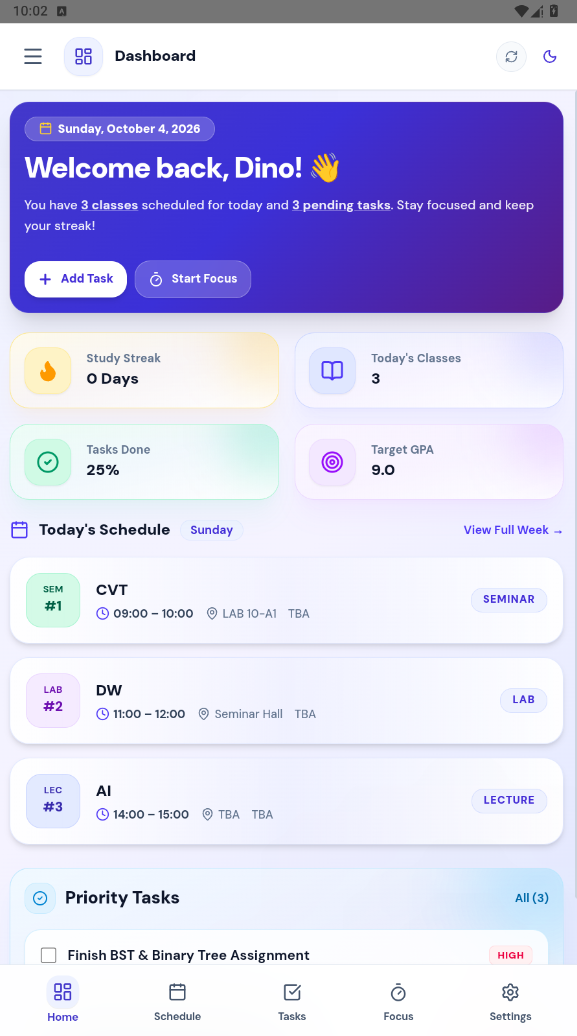
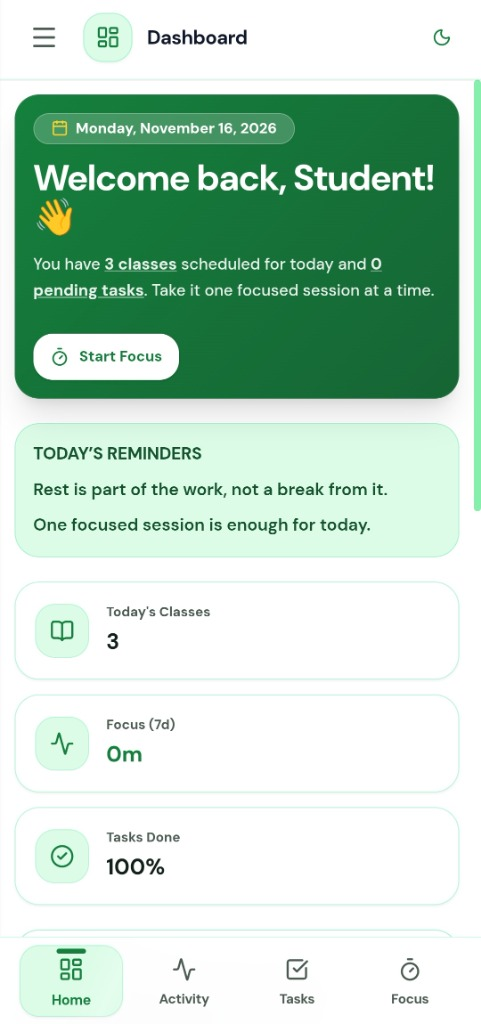
docs: update mobile screenshots in docs/screenshots and README

diff --git a/README.md b/README.md
@@ -66,15 +66,17 @@ Based on the original **studyzflow** project by **Dineswarkumar**: [https://gith
   </tr>
 </table>
 
-### 📱 Android
+### 📱 Android / Mobile
 
 <p align="center">
-  <img src="docs/screenshots/dashboard-mobile.png" alt="Mobile Dashboard" width="300" />
-  &nbsp;&nbsp;&nbsp;
-  <img src="docs/screenshots/timer-mobile.png" alt="Mobile Focus Timer" width="300" />
-  &nbsp;&nbsp;&nbsp;
-  <img src="https://github.com/user-attachments/assets/8f8d444a-5cec-4752-81b6-7fca6cfb2ec8" alt="Mobile Attendance Tracker" width="300" />
-  <br/><sub><b>Dashboard</b> &nbsp;•&nbsp; <b>3D Liquid Focus Timer</b> &nbsp;•&nbsp; <b>Attendance Tracker</b></sub>
+  <img src="docs/screenshots/dashboard-mobile.png" alt="Mobile Dashboard" width="220" />
+  &nbsp;&nbsp;
+  <img src="docs/screenshots/activity-mobile.png" alt="Mobile Wellness Activity" width="220" />
+  &nbsp;&nbsp;
+  <img src="docs/screenshots/timer-mobile.png" alt="Mobile Focus Timer" width="220" />
+  &nbsp;&nbsp;
+  <img src="docs/screenshots/notes-mobile.png" alt="Mobile Tasks and Notes" width="220" />
+  <br/><sub><b>Dashboard</b> &nbsp;•&nbsp; <b>Wellness Activity</b> &nbsp;•&nbsp; <b>Focus Timer</b> &nbsp;•&nbsp; <b>Tasks &amp; Notes</b></sub>
 </p>
 
 ---
